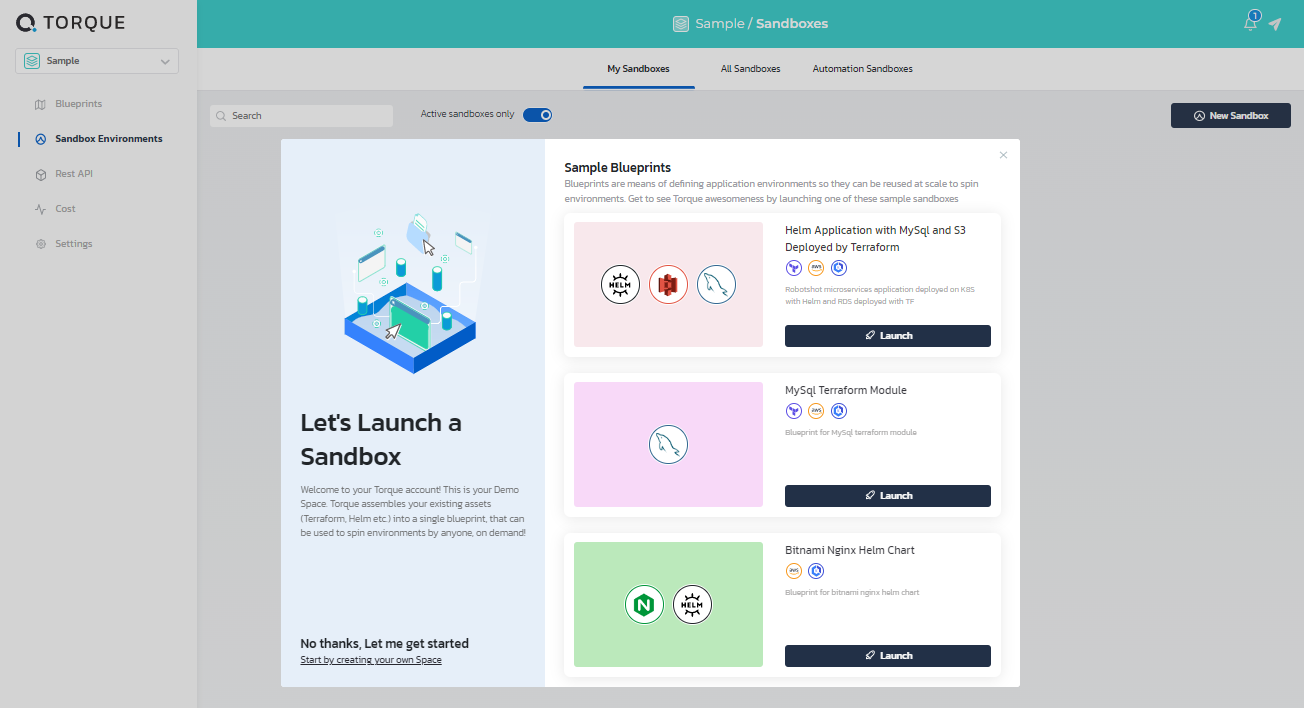
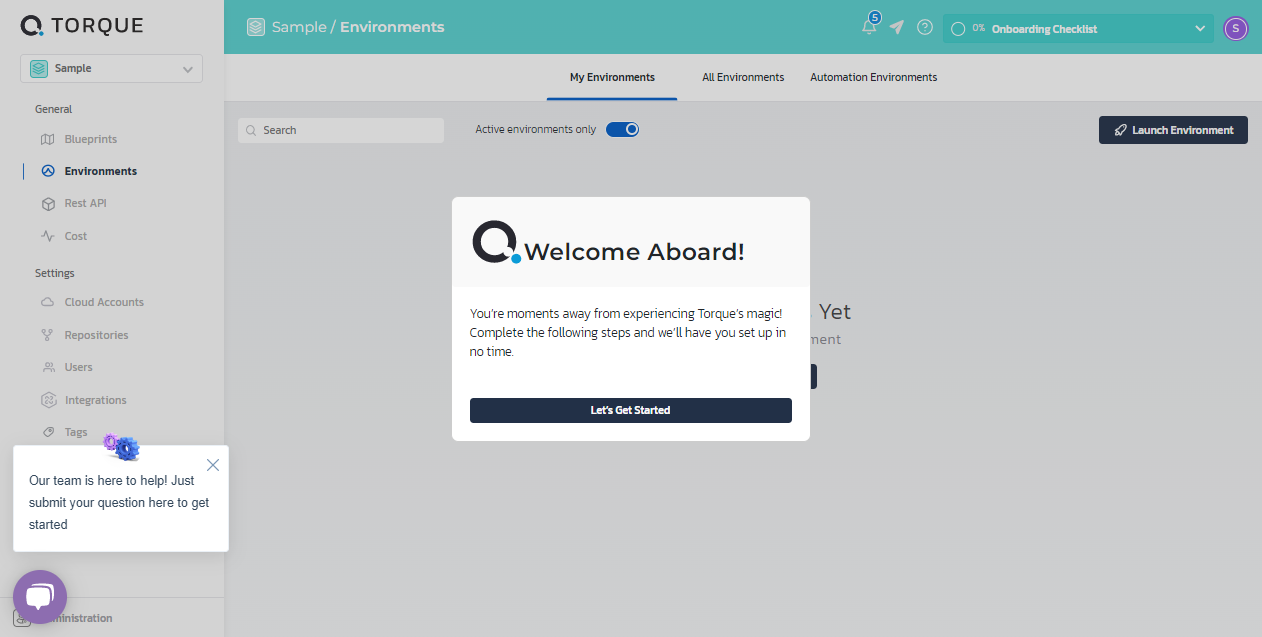
Aligned flows/images with current UX

diff --git a/docs/admin-guide/security-policies.md b/docs/admin-guide/security-policies.md
@@ -18,17 +18,17 @@ At this point, policies apply to Terraform grains.
 
 ## How to add a security policy
 
-1. Open the __Administration__ and click __Parameters > Policies__.
+1. Open the __Administration__ page and click __Policies__.
 2. Click __New Policy__ in the top right corner of the page.
-3. Give it a __Name__.
-4. Select the suitable policy template.
+3. Select the suitable policy template.
+4. Give it a __Name__.
 5. Select the __Scope__. __Account__ indicates that the policy applies to your entire Torque account, including all spaces.
-6. Specify the appropriate values. For details, see the appropriate policy's description below.
+6. Specify the appropriate values, if required. For details, see the policy's description below.
 
 ## Available policies
 
 * __Allowed Providers__: Lists the allowed Terraform providers an environment is allowed to deploy on. For example: aws, azurerm. 
-* __Allowed Regions__: Lists the AWS allowed regions for deploying environments. For example, us-east-2, eu-west-1. The list of AWS regions and codes is [here](https://docs.aws.amazon.com/AWSEC2/latest/UserGuide/using-regions-availability-zones.html#concepts-available-regions).
-* __Allowed Resource Types__: Lists the AWS resources an environment is allowed to deploy. The list of allowed resource types is [here](https://registry.terraform.io/providers/hashicorp/aws/latest/docs#skip_requesting_account_id).
+* __AWS Allowed Regions__: Lists the AWS allowed regions for deploying environments. For example, us-east-2, eu-west-1. The list of AWS regions and codes is [here](https://docs.aws.amazon.com/AWSEC2/latest/UserGuide/using-regions-availability-zones.html#concepts-available-regions).
+* __AWS Allowed Resource Types__: Lists the AWS resources an environment is allowed to deploy. The list of allowed resource types is [here](https://registry.terraform.io/providers/hashicorp/aws/latest/docs#skip_requesting_account_id).
 * __AWS Prohibited Instance Types__: Lists the instance types (such as for EC2) that environments are not allowed to deploy on AWS. The list of AWS instance types is [here](https://aws.amazon.com/ec2/instance-types/).
-* __Only Private S3 Buckets__: Allows to deploy only private S3 Bucket.
+* __AWS Only Private S3 Buckets__: Allows to deploy only private S3 Bucket.

diff --git a/docs/admin-guide/cost.md b/docs/admin-guide/cost.md
@@ -3,7 +3,7 @@ sidebar_position: 5
 title: Cost Monitoring
 ---
 
-Torque's __Cost__ dashboard provides you with actionable insights into the costs of your organization's environment deployments. Cost data is collected using a __toque_environment_id__ tag that is assigned (with a unique value) to every new environment's resources.
+Torque's __Cost__ dashboard provides you with actionable insights into the costs of your space's environments. Cost data is collected using a __toque_environment_id__ tag that is assigned (with a unique value) to every new environment's resources.
 
 ## Supported cloud providers
 * AWS
@@ -11,7 +11,7 @@ Torque's __Cost__ dashboard provides you with actionable insights into the costs
 * Kubernetes (EKS/AKS)
 
 ## Configuration
-Torque collects cost data using cost collection targets, which are managed in the __Admin Console__'s __Cost__ page.
+Torque collects cost data using cost collection targets, which are managed in the __Administration__ page's __Cost__ page.
 * Torque automatically creates a cost collection target for every Kubernetes execution host. The admin needs to enable the cost collection target so Torque can begin collecting cost data. However, Torque collects cost data directly from the pods using a 3<sup>rd</sup>-party tool called Kubecost, which must be [installed on clusters](https://www.kubecost.com/install.html#show-instructions) you wish to monitor.
 * For grains deploying directly on AWS (such as CloudFormation), you need to manually create a cost collection target. By nature, CloudFormation grains are deployed directly on the AWS cloud account and therefore don't require the use of a Kubernetes execution host.
 

diff --git a/docs/getting-started/Discover Your Assets.md b/docs/getting-started/Discover Your Assets.md
@@ -15,11 +15,9 @@ Click on an autogenerated blueprint to view the resulting yaml file. You can cus
 :::
 
 **To connect your repository:**
-1. Go to the **Settings** page in your space.
-  > ![Locale Dropdown](/img/settings.png)
-2. Click the **Repositories** tab.
+1. Go to your space, and select __Repositories__ from the left pane. 
   > ![Locale Dropdown](/img/repository.png)
-3. Click **Add a Repository** and follow the instructions.
+3. In the __Asset Repos__ section, click **Add a Repository** and follow the instructions.
 4. Now that your repository is connected, click __Discover Assets__ to have Torque auto-generate blueprints out of the suitable assets.
   > ![Locale Dropdown](/img/discover-assets-2.png)
 

diff --git a/docs/admin-guide/tags.md b/docs/admin-guide/tags.md
@@ -37,7 +37,7 @@ There are 3 types of tags in Torque:
 
   **To customize the activity_type tag:**
 
-    1. Switch to **Administration** and click **Tags**.
+    1. Open **Administration** and click **Tags**.
     2. Edit the **activity_type** tag.
 
     > ![Locale Dropdown](/img/edit-activity-type.png)
@@ -70,7 +70,7 @@ As the account admin, when you create a custom tag you can limit the allowed val
 
 ### Creating a custom tag
 
-1. Switch to **Administration** and click **Tags**.
+1. Open **Administration** and click **Tags**.
 2. click **+ New Tag** and follow the instructions.
 
 ### Overriding a custom tag's default value

diff --git a/docs/getting-started/Create an account.md b/docs/getting-started/Create an account.md
@@ -12,3 +12,7 @@ Your Torque journey starts with creating a Torque account. This account will ser
    The Welcome page is displayed, prompting you to launch a sample environment. To help you gauge the value of Torque, we've set up a __Sample__ space (top-left cornder of the screen) containing various fully-defined blueprints you can play around with.
 
    > ![Locale Dropdown](/img/welcome-page.png)
+4. Click __Let's Get Started__ to start the onboarding process.
+   > ![Locale Dropdown](/img/onboarding.png)
+
+5. Click the checklist at any time to check your progress.

diff --git a/docs/getting-started/Create your space.md b/docs/getting-started/Create your space.md
@@ -7,9 +7,9 @@ As we discussed in [The Sample Space](/getting-started/The%20Sample%20Space), th
 
 **To create a space:** 
 
-1. Access the **Administration**. 
+1. Open the **Administration** page. 
 
   > ![Locale Dropdown](/img/admin-console.png)
 
-2. Click **Spaces** > **Create space** and follow the instructions.  
+2. Click **Spaces** > **Create Space** and follow the instructions.  
 **Congratulations! You have created your first space in Torque. Now, connect your asset repository. **

diff --git a/docs/blueprint-designer-guide/blueprint-quickstart-guide.md b/docs/blueprint-designer-guide/blueprint-quickstart-guide.md
@@ -20,6 +20,8 @@ Torque launches environments out of blueprints, which are YAML files that repres
 > ![Locale Dropdown](/img/discover-assets.png)
 
 2. Select the assets you want Torque to discover and click __Generate Blueprints__.
+
+> ![Locale Dropdown](/img/select-assets.png)
   
   Torque creates a blueprint YAML for each asset, and lists the blueprints in your space’s __Blueprints__ page. You can click the blueprint to see the YAML file.
 

diff --git a/docs/admin-guide/roles-and-permissions.md b/docs/admin-guide/roles-and-permissions.md
@@ -47,7 +47,7 @@ As such, there are 4 roles in Torque:
 
 Torque role: Account admin
 
-1. Select **Administration** from the dropdown list in the top left corner of the application.
+1. Open the **Administration** page.
 2. Select **Users**.
 3. Click the **Invite User** button.
 4. Enter a user's email address and press the **[ENTER]** key. Repeat to add additional users.
